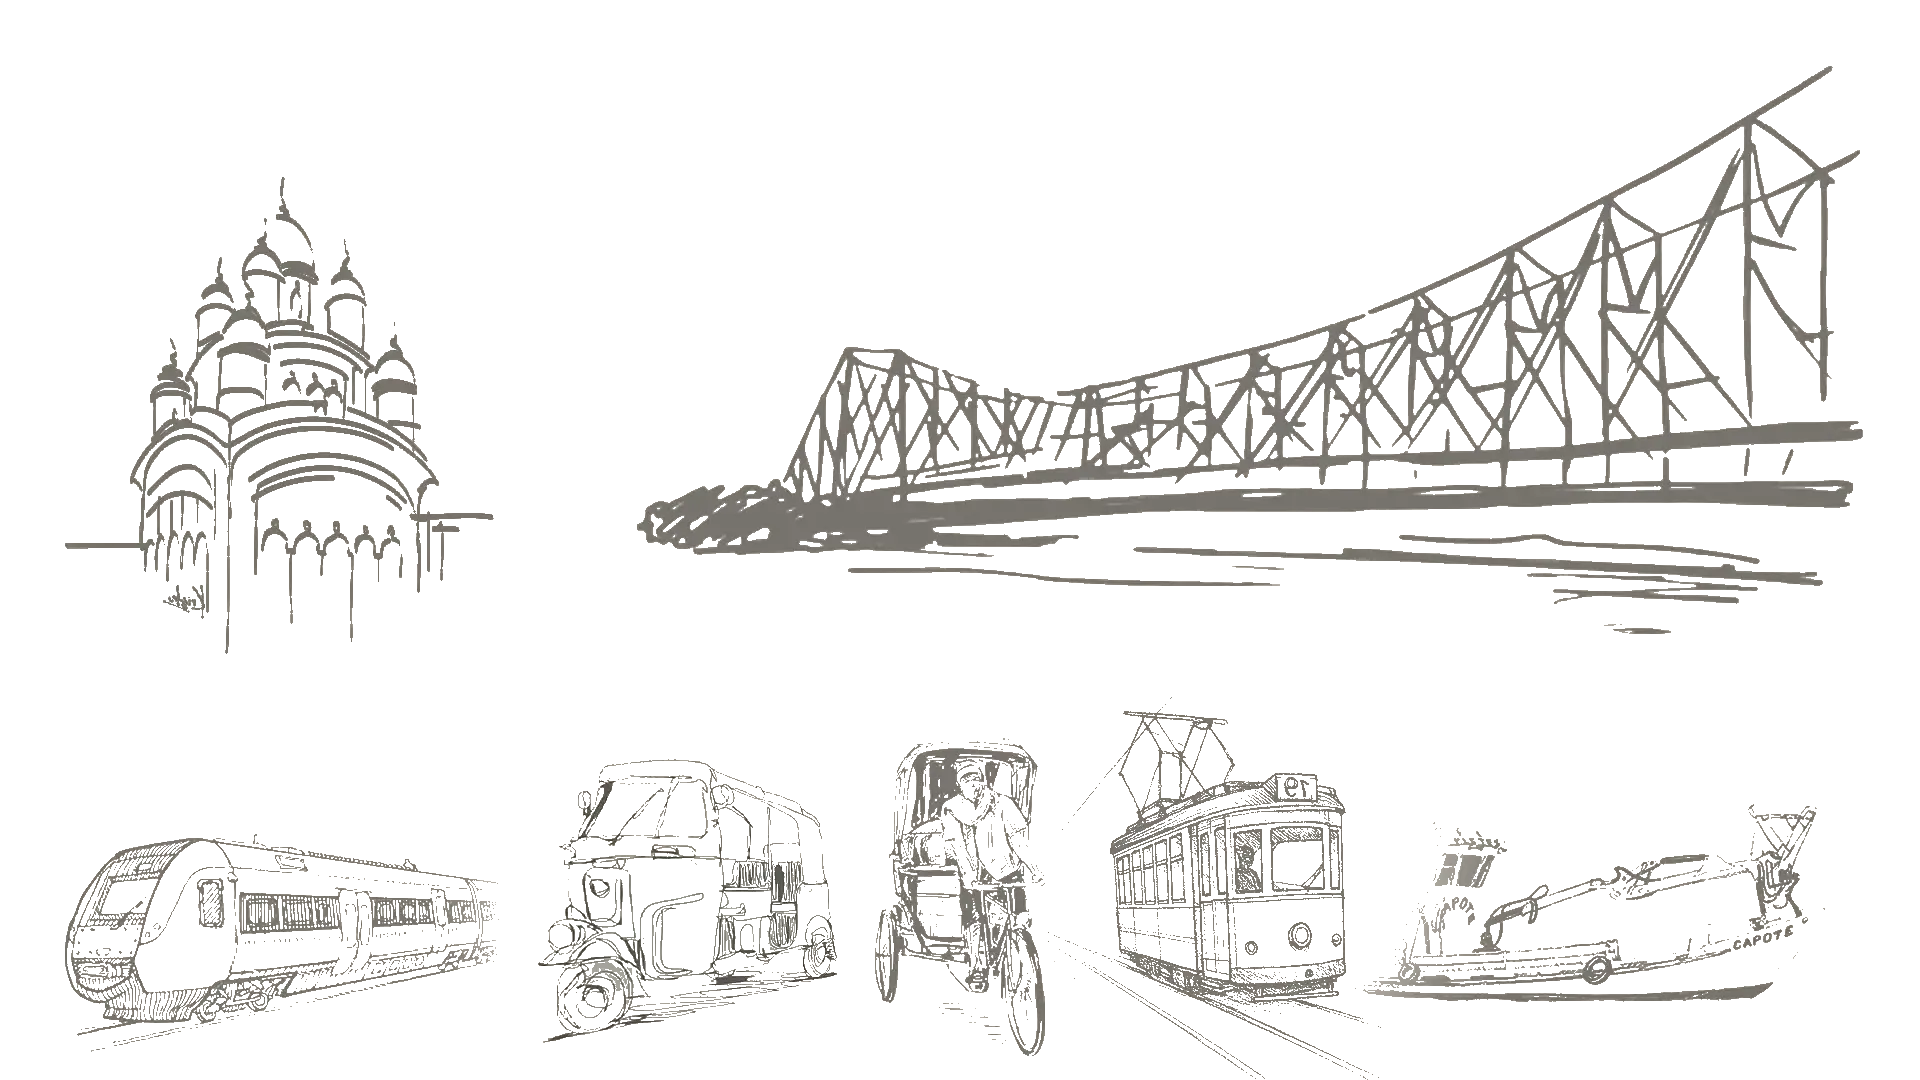
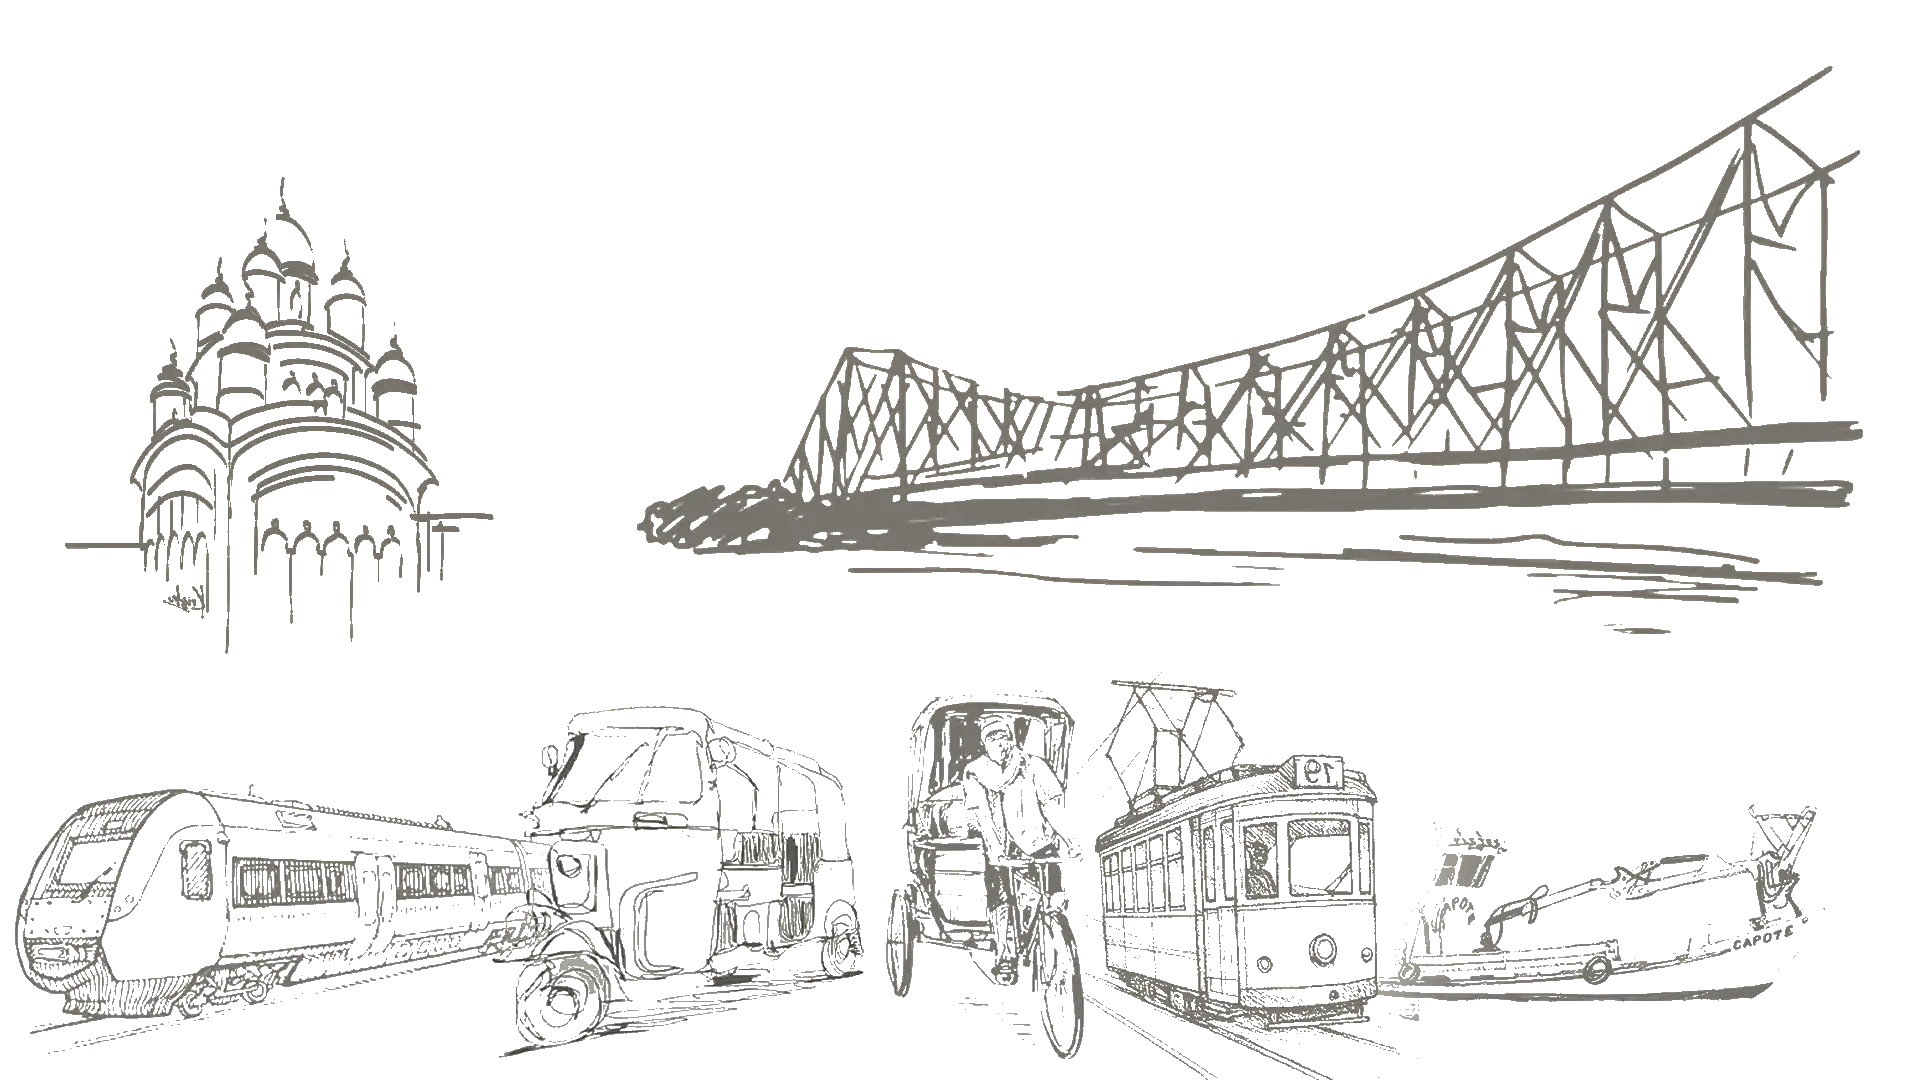
Canged techtix image

Changed region(s): [[0.0, 0.6111, 0.7188, 1.0]]

diff --git a/src/components/landing/about-sections/Techtix.tsx b/src/components/landing/about-sections/Techtix.tsx
@@ -140,7 +140,7 @@ const Techtix: React.FC = () => {
                 viewport={{ once: true }}
               >
                 <Image
-                  src="/about-vectors/img4.jpeg"
+                  src="/about-vectors/techtix.webp"
                   alt="Main Espektro focus"
                   fill
                   className="object-cover hover:scale-105 transition-transform duration-700"
